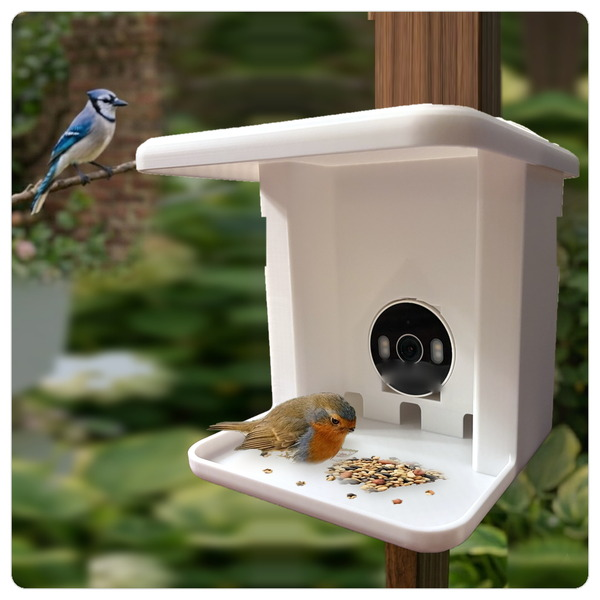
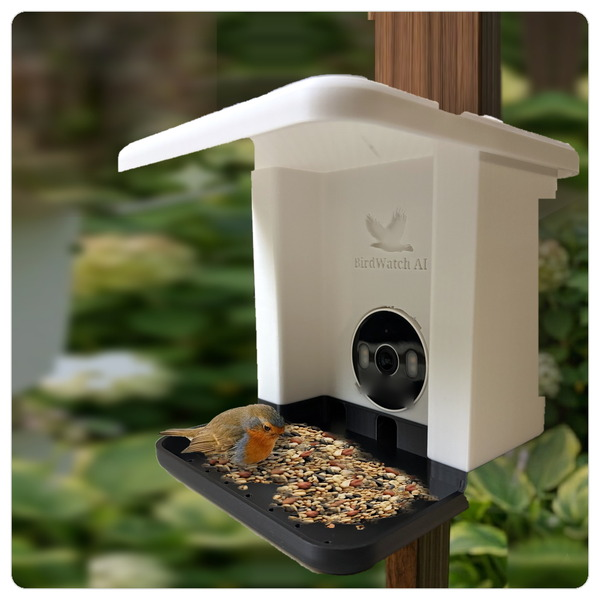
Images: outdoor feeder art now shows the black-base print
Rebuild the outdoor pricing card around the current 3D print: white body and
flat roof over a black perforated seed tray, with the moulded BirdWatch AI
bird and wordmark that the print now carries.

Same garden, post and border as before so the two pricing cards still read as
one family. The robin moves to the tray rim and the tray is stocked properly;
the blue jay is gone, so the alt text drops it and describes what is actually
in frame. Lens film removed as on the previous art.

diff --git a/index.html b/index.html
@@ -547,7 +547,7 @@
                     </div>
 
                     <div class="opt-card">
-                        <img src="images/full-nest-outdoor.jpg" alt="The outdoor feeder: a BirdWatchAI bird feeder with an integrated camera mounted on a wooden post, with a robin perched on the tray and a blue jay nearby." class="pricing-image" loading="lazy" width="768" height="768">
+                        <img src="images/full-nest-outdoor.jpg" alt="The outdoor feeder: a white BirdWatchAI bird feeder with an integrated camera and an etched BirdWatch AI mark, mounted on a wooden post in a garden, with a black seed tray full of mixed seed and a robin perched on its edge." class="pricing-image" loading="lazy" width="768" height="768">
                         <h5>Outdoor — post-mounted feeder</h5>
                         <p>A feeder that mounts on a post, with a bay built for the camera, so the lens sits at the right distance and stays out of the weather. The one to pick if you have a yard.</p>
                         <ul class="pricing-features pricing-features-icons">
